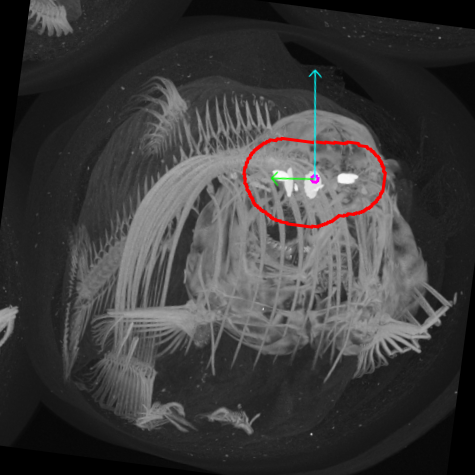
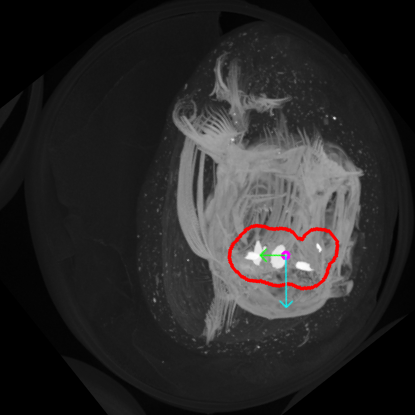
make template, cc, pca_align

diff --git a/PCA_rotate.py b/PCA_rotate.py
@@ -8,6 +8,7 @@ from math import atan2, cos, sin, sqrt, pi, degrees
 
 ctreader = ctfishpy.CTreader()
 
+# https://docs.opencv.org/3.4/d1/dee/tutorial_introduction_to_pca.html
 def drawAxis(img, p_, q_, colour, scale):
     p = list(p_)
     q = list(q_)
@@ -66,56 +67,61 @@ def rotate_image(image, angle):
   result = cv2.warpAffine(image, rot_mat, image.shape[1::-1], flags=cv2.INTER_LINEAR)
   return result
 
-areas = []
 
-def PCA(stack, threshold = 150, scale = 75):
-    projections = ctreader.get_max_projections(stack)
-    img = ctreader.resize(projections[0], scale)
-    img = ctreader.to8bit(img)
-    color = cv2.cvtColor(img, cv2.COLOR_GRAY2RGB)
-    cv2.imshow('raw projection', img)
+def PCA(projection, threshold = 150, scale = 75):
+    color = ctreader.resize(projection, scale)
+
+    cv2.imshow('raw projection', color)
     cv2.waitKey()
     cv2.destroyAllWindows()
 
-    ret, bw = cv2.threshold(img, 200, 255, cv2.THRESH_BINARY) #| cv2.THRESH_OTSU)
-    blur = cv2.GaussianBlur(bw, (77,77), 0)
+    ret, thresh = cv2.threshold(color, 200, 255, cv2.THRESH_BINARY) #| cv2.THRESH_OTSU)
+    bw = cv2.cvtColor(thresh, cv2.COLOR_RGB2GRAY)
+    cv2.imshow('thresholded then blurred', bw)
+    cv2.waitKey()
+    cv2.destroyAllWindows()
+    
+    blur_kernel = 43
+    blur = cv2.GaussianBlur(bw, (blur_kernel, blur_kernel), 0)
     cv2.imshow('thresholded then blurred', blur)
-    cv2.waitKey(27)
-    cv2.imwrite('output/pcastep1.png', img)
-    cv2.imwrite('output/pcastep2.png', bw)
-    cv2.imwrite('output/pcastep3.png', blur)
-    cv2.imwrite('output/pcastep4.png', color)
+    cv2.waitKey()
+    cv2.destroyAllWindows()
+    #ret, blur = cv2.threshold(blur, 50, 255, cv2.THRESH_BINARY) #| cv2.THRESH_OTSU)
+    cv2.imshow('thresholded then blurred', blur)
+    cv2.waitKey()
+    cv2.destroyAllWindows()
+
+    # cv2.imwrite('output/pcastep1.png', img)
+    # cv2.imwrite('output/pcastep2.png', bw)
+    # cv2.imwrite('output/pcastep3.png', blur)
+    # cv2.imwrite('output/pcastep4.png', color)
     ## [contours]
     # Find all the contours in the thresholded image
+
     contours, _ = cv2.findContours(blur, cv2.RETR_LIST, cv2.CHAIN_APPROX_NONE)
-    
+    areas = [cv2.contourArea(c) for c in contours]
+    i = areas.index(max(areas))
+    # Draw each contour only for visualisation purposes
+    cv2.drawContours(color, contours, i, (0, 0, 255), 2)
+    # Find the orientation of each shape
+    angle = getOrientation(contours[i], color)
 
-
-    for i, c in enumerate(contours):
-        # Calculate the area of each contour
-        area = cv2.contourArea(c)
-        print(area)
-        areas.append(area)
-        # Ignore contours that are too small or too large
-        min_size = 5000
-        if area < min_size:
-            continue
-
-        # Draw each contour only for visualisation purposes
-        cv2.drawContours(color, contours, i, (0, 0, 255), 2)
-        # Find the orientation of each shape
-        angle = getOrientation(c, color)
-
-        rotated = rotate_image(color, angle+180)
+    rotated = rotate_image(color, angle+180)
 
     ## [contours]
-
     cv2.imshow('output', rotated)
     cv2.imwrite('output/pcarotated.png', rotated)
     cv2.waitKey()
+    cv2.destroyAllWindows()
+    return angle
 
-
-for i in range(40,100):
-    ct, stack_metadata = ctreader.read(i)
-    #Add gaussian blur to combine otoliths
-    angle = PCA(ct, threshold=150)
+if __name__ == "__main__":   
+    ctreader = ctfishpy.CTreader()
+    lumpfish = ctfishpy.Lumpfish()
+    for i in [40, 76, 81, 85, 88, 218, 222, 236, 298, 425]:
+        projection = cv2.imread(f'Data/projections/x/{i}.png')
+        #Add gaussian blur to combine otoliths
+        angle = PCA(projection, threshold=150)
+        print(angle)
+        angleDict = {'angle': angle}
+        lumpfish.append_metadata(i, angleDict)

diff --git a/make_cc_template.py b/make_cc_template.py
@@ -8,9 +8,24 @@ import gc
 from scipy import ndimage
 
 def crop3D(stack, crop):
-	return stack[crop[0,0]: crop[0,1], crop[1,0]: crop[1,1], crop[2,0]: crop[2,1]]
+	cropped = stack[crop[0,0]: crop[0,1],
+					crop[1,0]: crop[1,1],
+					crop[2,0]: crop[2,1]]
+	return np.array(cropped)
 
-def makeTemplate(labelsList, scanList):
+def check(x, x_length):
+	return x
+	if x < 0: 
+		return 0 
+	elif x > x_length:  
+		return x_length
+
+def find_roi_bounds(x, roiSize, x_length):
+	x1 = check(int(x - roiSize/2), x_length)
+	x2 = check(int(x + roiSize/2), x_length)
+	return [x1, x2]
+
+def makeTemplate(labelsList, scanList, roiSize):
 	'''
 	Make template by:
 	1. find lagenal centre of mass of labels 
@@ -18,35 +33,36 @@ def makeTemplate(labelsList, scanList):
 	2. use crop from original scan (only reading necessary slices) 
 	3. Average multiple ROI crops 
 	'''
-	shape = labelsList.shape
 	cropList = []
 
+	print('Finding ROIs...')
 	for label in labelsList:
-		y, x, z = ndimage.measurements.center_of_mass(label)
-		find_roi_bounds = lambda x: [int(x - 125.5), int(x + 125.5)]
+		z, x, y = ndimage.measurements.center_of_mass(label)
 		
 		'''
-		using lambda to make this shape 3d crop array
-		and make cc easier:
+		using lambda to make this shape 3d crop 
+		array with less repitition and make cc easier:
 
-		crop = [[x1, x2],
-				[y1, y2],
-				[z1, z2]]
+		crop = [[z1, z2],
+				[x1, x2],
+				[y1, y2]]
 		''' 
+		labelShape = label.shape
+		crop = [find_roi_bounds(z, roiSize, labelShape[0]),
+				find_roi_bounds(x, roiSize, labelShape[1]),
+				find_roi_bounds(y, roiSize, labelShape[2])]
+		cropList.append(np.array(crop))
 
-		crop = [find_roi_bounds(x),
-				find_roi_bounds(y),
-				find_roi_bounds(z)]
-		cropList.append(crop)
-
-	masterList = zip(scanList, cropList)
-	for ct, crop in scanList:
-		otolith = crop3D(ct, crop)
+	otolithList = []
+	for i, ct in enumerate(scanList):
+		otolith = crop3D(ct, cropList[i])
 		ctreader = ctfishpy.CTreader()
-		ctreader.view(otolith)
-		otoliths.append(otolith)
+		otolith = ctreader.thresh_stack(otolith, 150)
+		otolithList.append(otolith)
 
-	template = np.average(otoliths, 3)
+	otolithArray = np.array(otolithList)
+	template = np.array(np.average(otolithArray, 0), dtype='uint16')
+	
 	return template
 
 
@@ -56,14 +72,15 @@ if __name__ == "__main__":
 	
 	labelsList = []
 	scanList = []
-	_list = [76]#, 81, 85, 88, 218, 222, 236, 298, 425]
+	_list = [40, 76, 81, 85, 88] #,218, 222, 236, 298, 425]
 	for fish in _list:
 		ct, metadata = ctreader.read(fish)
-		label = ctreader.read_label(f'home/wahab/Data/HDD/uCT/Labels/Otolith1/076.h5')
-		labelsList.append(ct)
-		scanList.append(label)
+		label = ctreader.read_label(f'../../Data/HDD/uCT/Labels/Otolith1/{fish}.h5')
+		labelsList.append(label)
+		scanList.append(ct)
 
-	template = makeTemplate(labelsList, scanList)
+	template = makeTemplate(labelsList, scanList, roiSize = 125)
 	lumpfish.write_label('Data/Labels/CC/otolith_template.hdf5', template)
+	ctreader.view(template)
 
 #/home/wahab/Data/HDD/uCT/Labels/Otolith1

diff --git a/ctfishpy/CTreader.py b/ctfishpy/CTreader.py
@@ -29,7 +29,7 @@ class CTreader():
     def list_numbers(self, m):
         return list(m.loc[:]['n'])
 
-    def read(self, fish, r = None):
+    def read(self, fish, r=None, align=True):
         fishpath = Path.home() / 'Data' / 'HDD' / 'uCT' / 'low_res_clean' / str(fish).zfill(3) 
         tifpath = fishpath / 'reconstructed_tifs'
         metadatapath = fishpath / 'metadata.json'
@@ -47,14 +47,18 @@ class CTreader():
         if r:
             for i in tqdm(range(*r)):
                 tiffslice = tiff.imread(images[i])
-                #tiffslice = cv2.imread(images[i]) 
+                ctreader.view(tiffslice)
+                if align == True: 
+                    tiffslice = self.rotate_image(tiffslice, stack_metadata['angle'])
+                    ctreader.view(tiffslice)
                 ct.append(tiffslice)
             ct = np.array(ct)
 
         else:
             for i in tqdm(images):
                 tiffslice = tiff.imread(i)
-                #tiffslice = cv2.imread(i)
+                if align == True: 
+                    tiffslice = self.rotate_image(tiffslice, stack_metadata['angle'])
                 ct.append(tiffslice)
             ct = np.array(ct)
 
@@ -91,8 +95,8 @@ class CTreader():
             new_img = ((img - img.min()) / (img.ptp() / 255.0)).astype(np.uint8) 
             return new_img
         else:
-            print('Stack already 8 bit!')
-            return stack
+            print('image already 8 bit!')
+            return img
 
     def thresh_stack(self, stack, thresh_8):
         '''
@@ -106,6 +110,7 @@ class CTreader():
         for slice_ in stack:
             new_slice = (slice_ > thresh_16) * slice_
             thresholded.append(new_slice)
+            
         return np.array(thresholded)
 
     def saveJSON(self, nparray, jsonpath):
@@ -130,4 +135,9 @@ class CTreader():
         height = int(img.shape[0] * percent / 100)
         return cv2.resize(img, (width, height), interpolation = cv2.INTER_AREA)
 
+    def rotate_image(self, image, angle):
+        image_center = tuple(np.array(image.shape[1::-1]) / 2)
+        rot_mat = cv2.getRotationMatrix2D(image_center, angle, 1.0)
+        result = cv2.warpAffine(image, rot_mat, image.shape[1::-1], flags=cv2.INTER_LINEAR)
+        return result
 

diff --git a/ctfishpy/Lumpfish.py b/ctfishpy/Lumpfish.py
@@ -10,6 +10,7 @@ import json
 import cv2
 import os
 import gc
+import h5py
 
 class Lumpfish():
     
@@ -361,6 +362,14 @@ class Lumpfish():
         with open(jsonpath, 'w') as o:
             json.dump(input, o)
 
+    def append_metadata(self, n, inputDict):
+        metadataPath = f'../../Data/HDD/uCT/low_res_clean/{str(n).zfill(3)}/metadata.json'
+        with open(metadataPath) as f:
+            data = json.load(f)
+        data.update(inputDict)
+        with open(metadataPath, 'w') as f:
+            json.dump(data, f)
+
     def write_clean(self, n, cropped_cts, metadata):
         order = self.fish_order_nums[n]
         print(f'order {len(order)}, number of circles: {len(cropped_cts)}')
@@ -411,3 +420,10 @@ class Lumpfish():
                 print(f'[Fish {order[o]}, slice:{i}/{len(ct)}]', end="\r")
             ct = None
             gc.collect()
+
+    def write_label(self, labelPath, label):
+        with h5py.File(labelPath, 'w') as f:
+            f.create_dataset('t0', data=label)
+        
+        print('Labels ready.')
+        return label

diff --git a/ctfishpy/GUI/mainviewer.py b/ctfishpy/GUI/mainviewer.py
@@ -51,7 +51,7 @@ class Viewer(QWidget):
 		super().__init__()
 
 		# init variables
-		if np.max(stack) == 1: stack = stack*255 #fix labels
+		if np.max(stack) == 1: stack = stack*255 #fix labels so you can view them if are main stack
 		self.ogstack = stack
 		self.stack_size = stack.shape[0]
 		self.stride = stride
@@ -146,7 +146,6 @@ class Viewer(QWidget):
 		elif len(image.shape) == 3: grayscale = False
 		else: raise ValueError('[Viewer] Cant tell if stack is color or grayscale, weird shape :/')
 		if self.is_single_image: grayscale = True
-
 
 		# convert npimage to qimage depending on color mode
 		if grayscale == True:

diff --git a/view_labels.py b/view_labels.py
@@ -6,7 +6,7 @@ import cv2
 
 ctreader = ctfishpy.CTreader()
 
-labelpath = '../../Data/HDD/uCT/Labels/Otolith1/040.h5'
+labelpath = '../../Data/HDD/uCT/Labels/Otolith1/40.h5'
 
 label = ctreader.read_label(labelpath)
 #ctreader.view(label)
